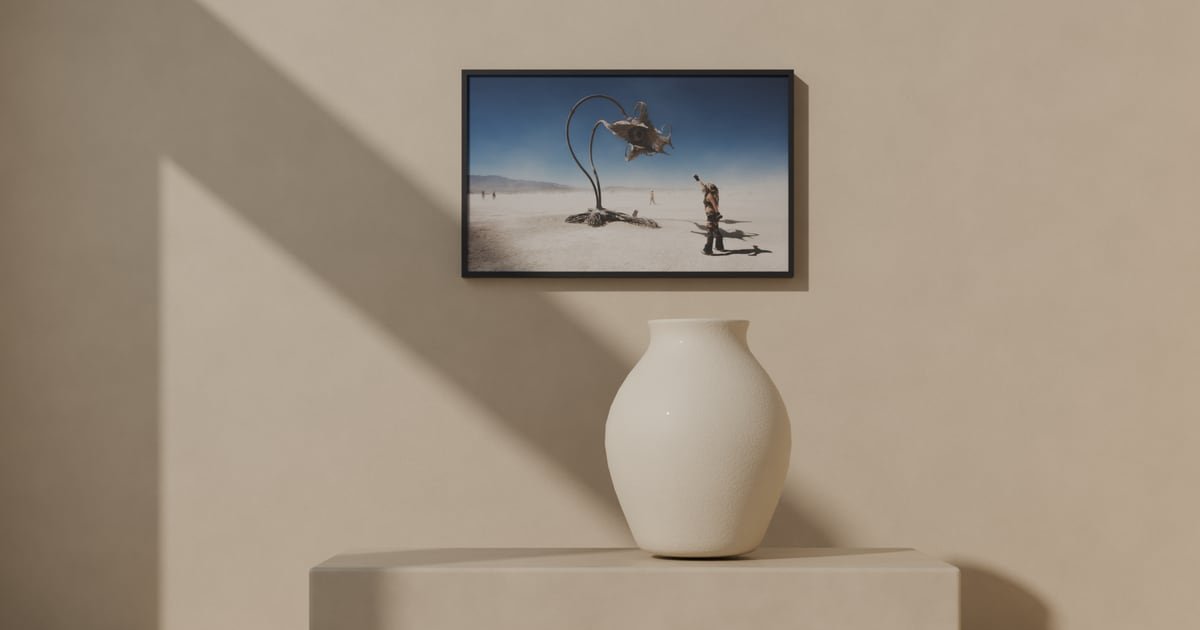
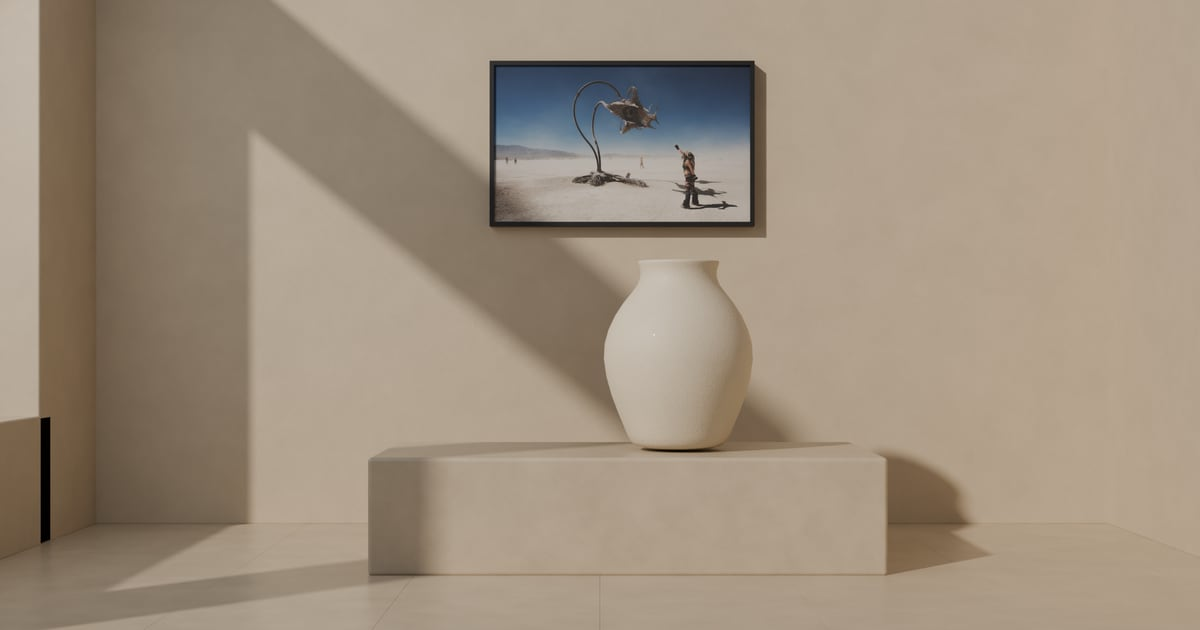
HAS Space: a full-width hero, no black bars
The page opened on a still inside the film band, which shrinks a 16:9 picture
to fit a video on screen and so left black columns at the sides on most
screens. A still doesn't need that: it now opens on a full-width 7:3 render,
edge to edge at every width.

The render is new, from HAS Space itself: the same Gallery space and photo,
shot wider (38 mm instead of 44 mm) at 3200 px so the 7:3 crop keeps room
around the frame and the vessel. The link preview is cut from it too.

Claude-Session: https://claude.ai/code/session_01TrVLkLcAAVD2Rk7NEKFhrc

diff --git a/src/data/work.ts b/src/data/work.ts
@@ -255,7 +255,7 @@ export const space = {
   ] as [string, string][],
   group: 'motion' as const,
   tagline: 'Design. Material. Light.',
-  hero: { src: '/img/work/has-space/hero.webp', w: 2400, h: 1350, alt: 'A HAS Space render: a limewash gallery room with a framed Burning Man photograph on the wall, a white ceramic vessel on a stone plinth, and a diagonal of sunlight', caption: '' } as Still,
+  hero: { src: '/img/work/has-space/hero.webp', w: 2400, h: 1029, alt: 'A HAS Space render: a limewash gallery room with a framed Burning Man photograph on the wall, a white ceramic vessel on a stone plinth, and a diagonal of sunlight', caption: '' } as Still,
   story: [
     { title: 'Vision', paras: [
       'I wanted to hang art on walls, and walk through the rooms.',

diff --git a/CLAUDE.md b/CLAUDE.md
@@ -58,7 +58,7 @@ Built with Astro (static output, no client framework). The build ships plain HTM
 
 **Change the related tiles**: edit `picks` in `src/data/related.ts` (page path → three page paths). A new project or app needs no entry (it falls back to the next three in its list), but give it one so its picks mean something. The build stops on a path that doesn't exist.
 
-**HAS Space** (`/work/has-space`, Oct 2026): the second one-off work page, `src/pages/work/has-space.astro`, from `space` in `src/data/work.ts`, built like HAS Toyline's. HAS Space is the owner's desktop app for designing interiors (repo `has-everything/kata-studio`: a three.js live view plus a Blender worker; v0.6, Mac and Windows, in beta), so there is no film: the top band holds a still render. Every image in `public/img/work/has-space/` came out of the app itself, rendered in a cloud session (Oct 2026) by running its own `server.py` with Blender 5.2.1's Python module (`pip install bpy==5.2.1`) behind a small `blender` wrapper, and driving it through its own HTTP API: `hero.webp` (its Gallery space with the owner's Burning Man photo 011 hung as artwork), `spaces.webp` (its Gallery, Terracotta and Nocturne spaces), `looks.webp` (the furnished starter room, with photo 007 as its artwork, in all five render styles), `app.webp` (the interface in Plan + 3D) and `catalog.webp` (its own catalog renders, `web/assets/furnishings`). The story is the owner's why, in his words: spaces to see artwork on the walls and walk through; then interiors, furniture and Blender renders, one need after another; an interface pleasant to look at and easy for anyone. Role and status are his ("Creative Director, Builder"; "still in beta"). Its tile sits on /work after HAS Toyline (`spaceTile`).
+**HAS Space** (`/work/has-space`, Oct 2026): the second one-off work page, `src/pages/work/has-space.astro`, from `space` in `src/data/work.ts`, built like HAS Toyline's. HAS Space is the owner's desktop app for designing interiors (repo `has-everything/kata-studio`: a three.js live view plus a Blender worker; v0.6, Mac and Windows, in beta), so there is no film: it opens on a full-width 7:3 render (no film band, so no black bars at the sides), its Gallery space shot with a 38 mm lens so the 3:2 render crops to 7:3 with room around the subject. Every image in `public/img/work/has-space/` came out of the app itself, rendered in a cloud session (Oct 2026) by running its own `server.py` with Blender 5.2.1's Python module (`pip install bpy==5.2.1`) behind a small `blender` wrapper, and driving it through its own HTTP API: `hero.webp` (its Gallery space with the owner's Burning Man photo 011 hung as artwork), `spaces.webp` (its Gallery, Terracotta and Nocturne spaces), `looks.webp` (the furnished starter room, with photo 007 as its artwork, in all five render styles), `app.webp` (the interface in Plan + 3D) and `catalog.webp` (its own catalog renders, `web/assets/furnishings`). The story is the owner's why, in his words: spaces to see artwork on the walls and walk through; then interiors, furniture and Blender renders, one need after another; an interface pleasant to look at and easy for anyone. Role and status are his ("Creative Director, Builder"; "still in beta"). Its tile sits on /work after HAS Toyline (`spaceTile`).
 
 **Change colors or type**: tokens at the top of `src/styles/global.css` (`:root` for day, `[data-theme="night"]` for night).
 
